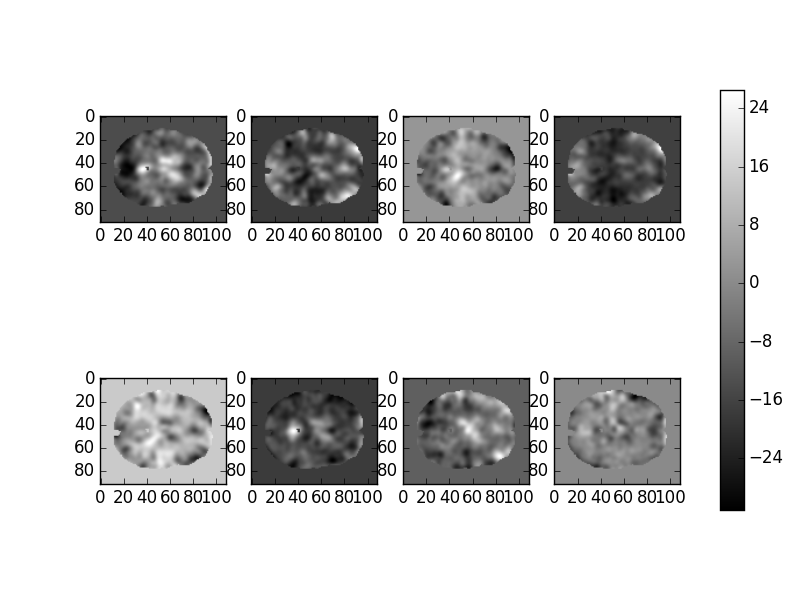
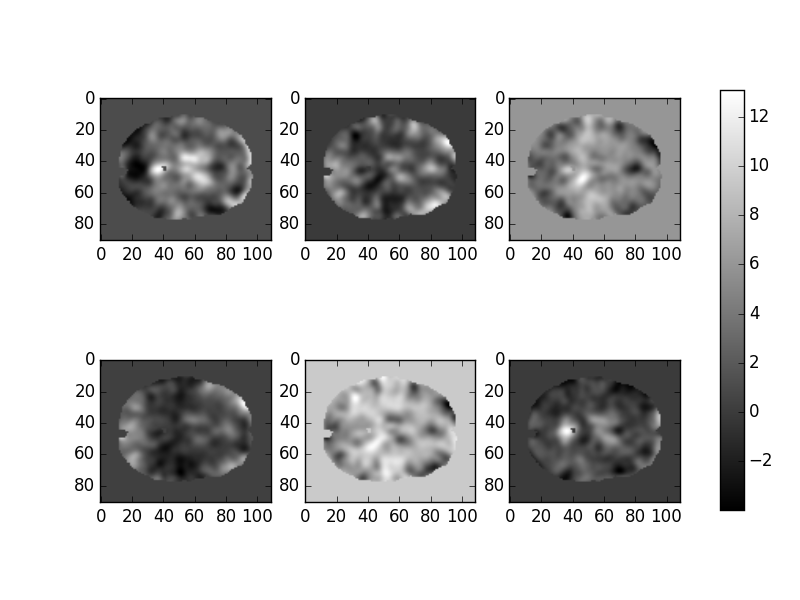
picture focus on only betas of interest

diff --git a/code/utils/linear_modeling/full_linear_modeling_script.py b/code/utils/linear_modeling/full_linear_modeling_script.py
@@ -75,8 +75,8 @@ print('The mean MRSS across all voxels using all 6 study conditions is ' + str(n
 b_vols = np.zeros(vol_shape + (beta.shape[0],))
 b_vols[in_brain_mask, :] = beta.T
 # Then plot them on the same plot with uniform scale
-fig, axes = plt.subplots(nrows=2, ncols=4)
-for i, ax in zip(range(0,8,1), axes.flat):
+fig, axes = plt.subplots(nrows=2, ncols=3)
+for i, ax in zip(range(0,6,1), axes.flat):
     im = ax.imshow(b_vols[:, :, 45, i], cmap = 'gray')
 fig.subplots_adjust(right=0.85)
 cax = fig.add_axes([0.9, 0.15, 0.03, 0.7])
@@ -108,8 +108,8 @@ p_val = np.zeros(vol_shape + (p_mat.shape[0],))
 p_val[in_brain_mask, :] = p_mat.T
 
 ############## Visualizing t values for the middle slice
-fig, axes = plt.subplots(nrows=2, ncols=4)
-for i, ax in zip(range(0,8,1), axes.flat):
+fig, axes = plt.subplots(nrows=2, ncols=3)
+for i, ax in zip(range(0,6,1), axes.flat):
     im = ax.imshow(t_val[:, :, 45, i], cmap = 'RdYlBu')
 fig.subplots_adjust(right=0.85)
 cax = fig.add_axes([0.9, 0.15, 0.03, 0.7])
@@ -118,8 +118,8 @@ plt.savefig("../../../data/maps/full_t_map.png")
 plt.close()
 
 ############## Visualizing p values for the middle slice in gray
-fig, axes = plt.subplots(nrows=2, ncols=4)
-for i, ax in zip(range(0,8,1), axes.flat):
+fig, axes = plt.subplots(nrows=2, ncols=3)
+for i, ax in zip(range(0,6,1), axes.flat):
     im = ax.imshow(p_val[:, :, 45, i], cmap = 'gray')
 fig.subplots_adjust(right=0.85)
 cax = fig.add_axes([0.9, 0.15, 0.03, 0.7])
